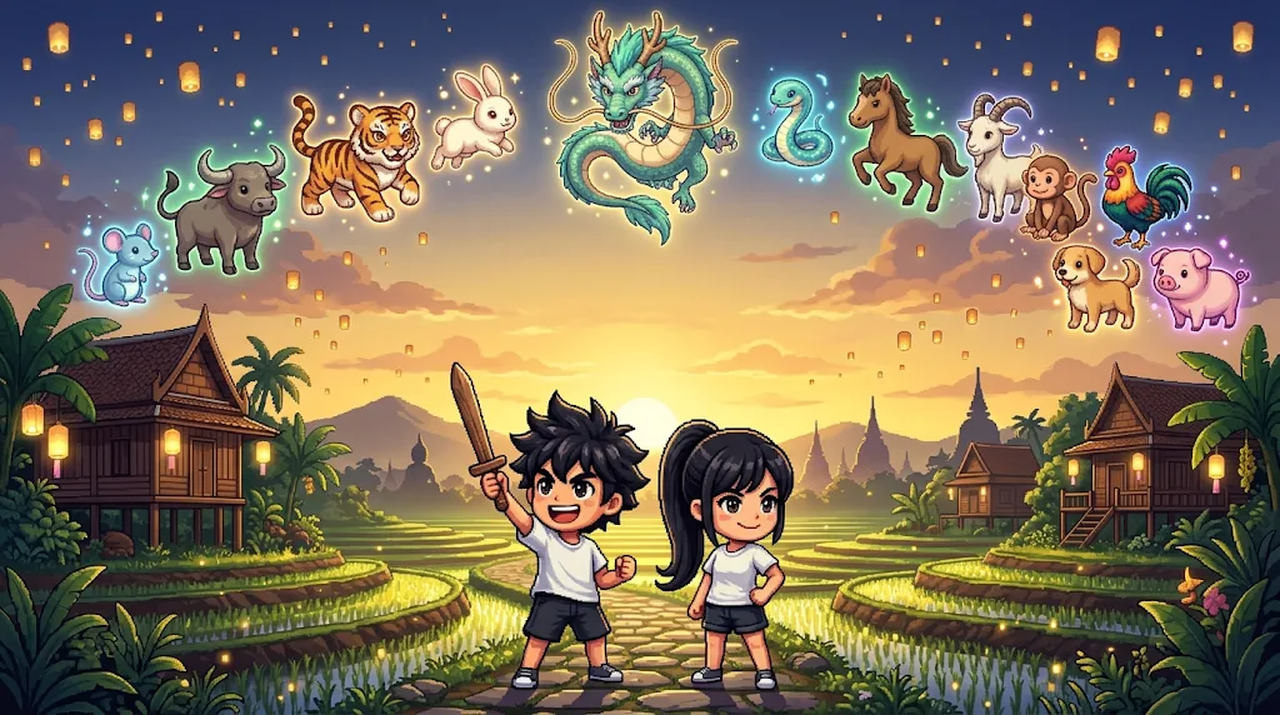
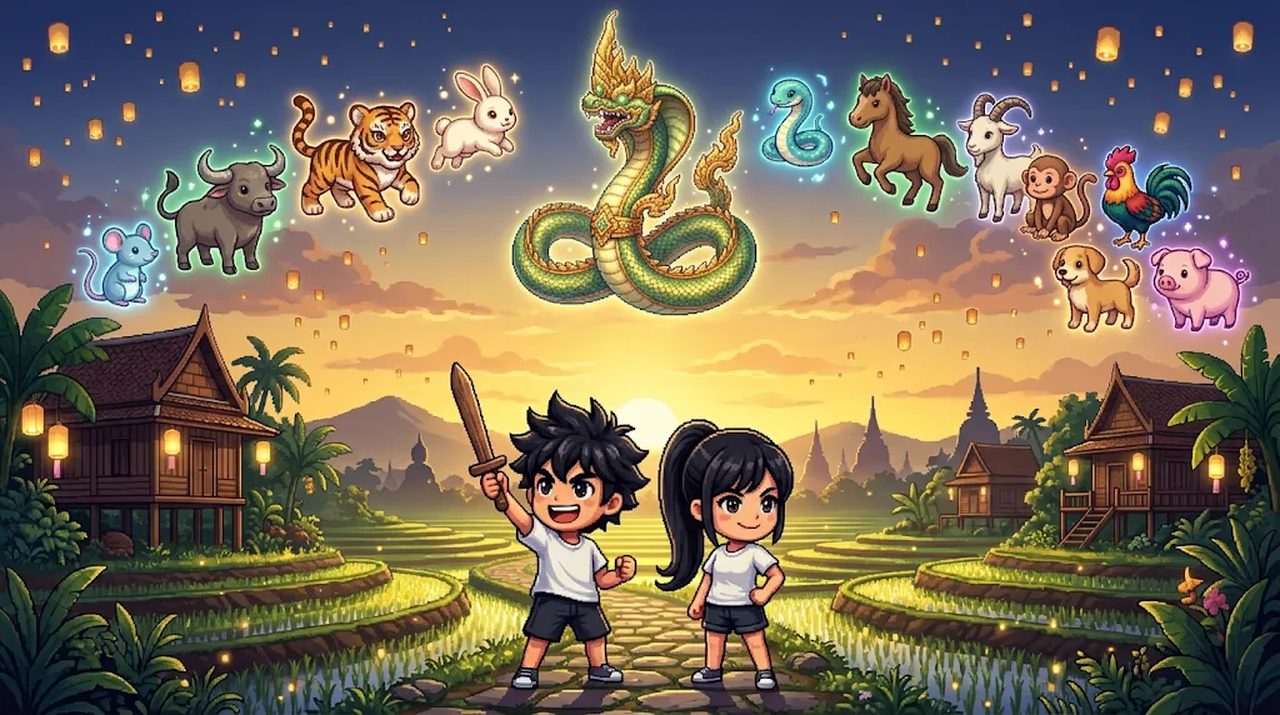
ภาพปกใหม่: มะโรงเป็นพญานาค, โลโก้ย้ายไปมุมซ้ายบน
Claude-Session: https://claude.ai/code/session_01J9NCfWgs9eBq1qjdwjHxHL

Changed region(s): [[0.375, 0.0, 0.5938, 0.4615]]

diff --git a/CLAUDE.md b/CLAUDE.md
@@ -13,7 +13,7 @@ Godot 4.7.2 GDScript game (web export, no threads). The owner does not code: exp
 - Monsters have levels: `Enemy.KINDS[kind]["lv"]` range; HP +25%, damage +12%, EXP +30% per level above the minimum; `Lv.X` is drawn above each monster (red when higher than the player).
 - Critical hits: `Game.BASE_CRIT` 8% (+ tiger set). `Player._damage()` sets `Game.pending_crit`; `Game.hit_enemies()` plays `_crit_fx` (ring, burst, CRITICAL! text, shake, hit stop) and sets `Game.hit_is_crit` so damage numbers are big and orange.
 - Mobile / screen: `Hud._on_screen_resized()` switches the canvas to 720x1280 when the window is portrait (1280x720 landscape), moves the hotbar, bag and touch buttons (`TOUCH_LANDSCAPE` / `TOUCH_PORTRAIT`: run sits by the attack button, skill buttons show their name and cooldown, the bottom skill bar hides on touch) and calls `Player.apply_view()` (portrait camera puts the ground at ~62% height; `Stage` fills the area under the road with earth color). The Mali font has no ✕ or ♪: use × and the drawn `SpeakerIcon`. Check layouts with `xvfb-run godot --path . --resolution 720x1560 res://tests/touch_shot.tscn -- shots=<dir>`.
-- Title cover `assets/art/title.png` shows both heroes and the 12 zodiacs (มะโรง is a true dragon, id `dragon`); the logo sits under the zodiac arc.
+- Title cover `assets/art/title.png` shows both heroes and the 12 zodiacs (มะโรง is a Thai พญานาค, id `naga` — the owner wants a naga, not a Chinese dragon); the logo sits under the zodiac arc.
 - Boss skill telegraphs use `Fx` kind `warn`: a glowing ground circle that charges up (not a box).
 - Other art scripts: `tools/prep_misc.py` (house interior, title cover, equipment icons, rat still). `prep_frames.py`/`prep_monsters.py` take optional names to process only some sheets.
 - Backgrounds: village and field use 3 parallax layers (`layer_far.png`, `layer_<style>_mid.png`, `layer_<style>_near.png`, cut with `tools/prep_layers.py`) plus the road strip `ground_<style>.png`; the cave and the chief's house use single `bg_<style>.png` images.
